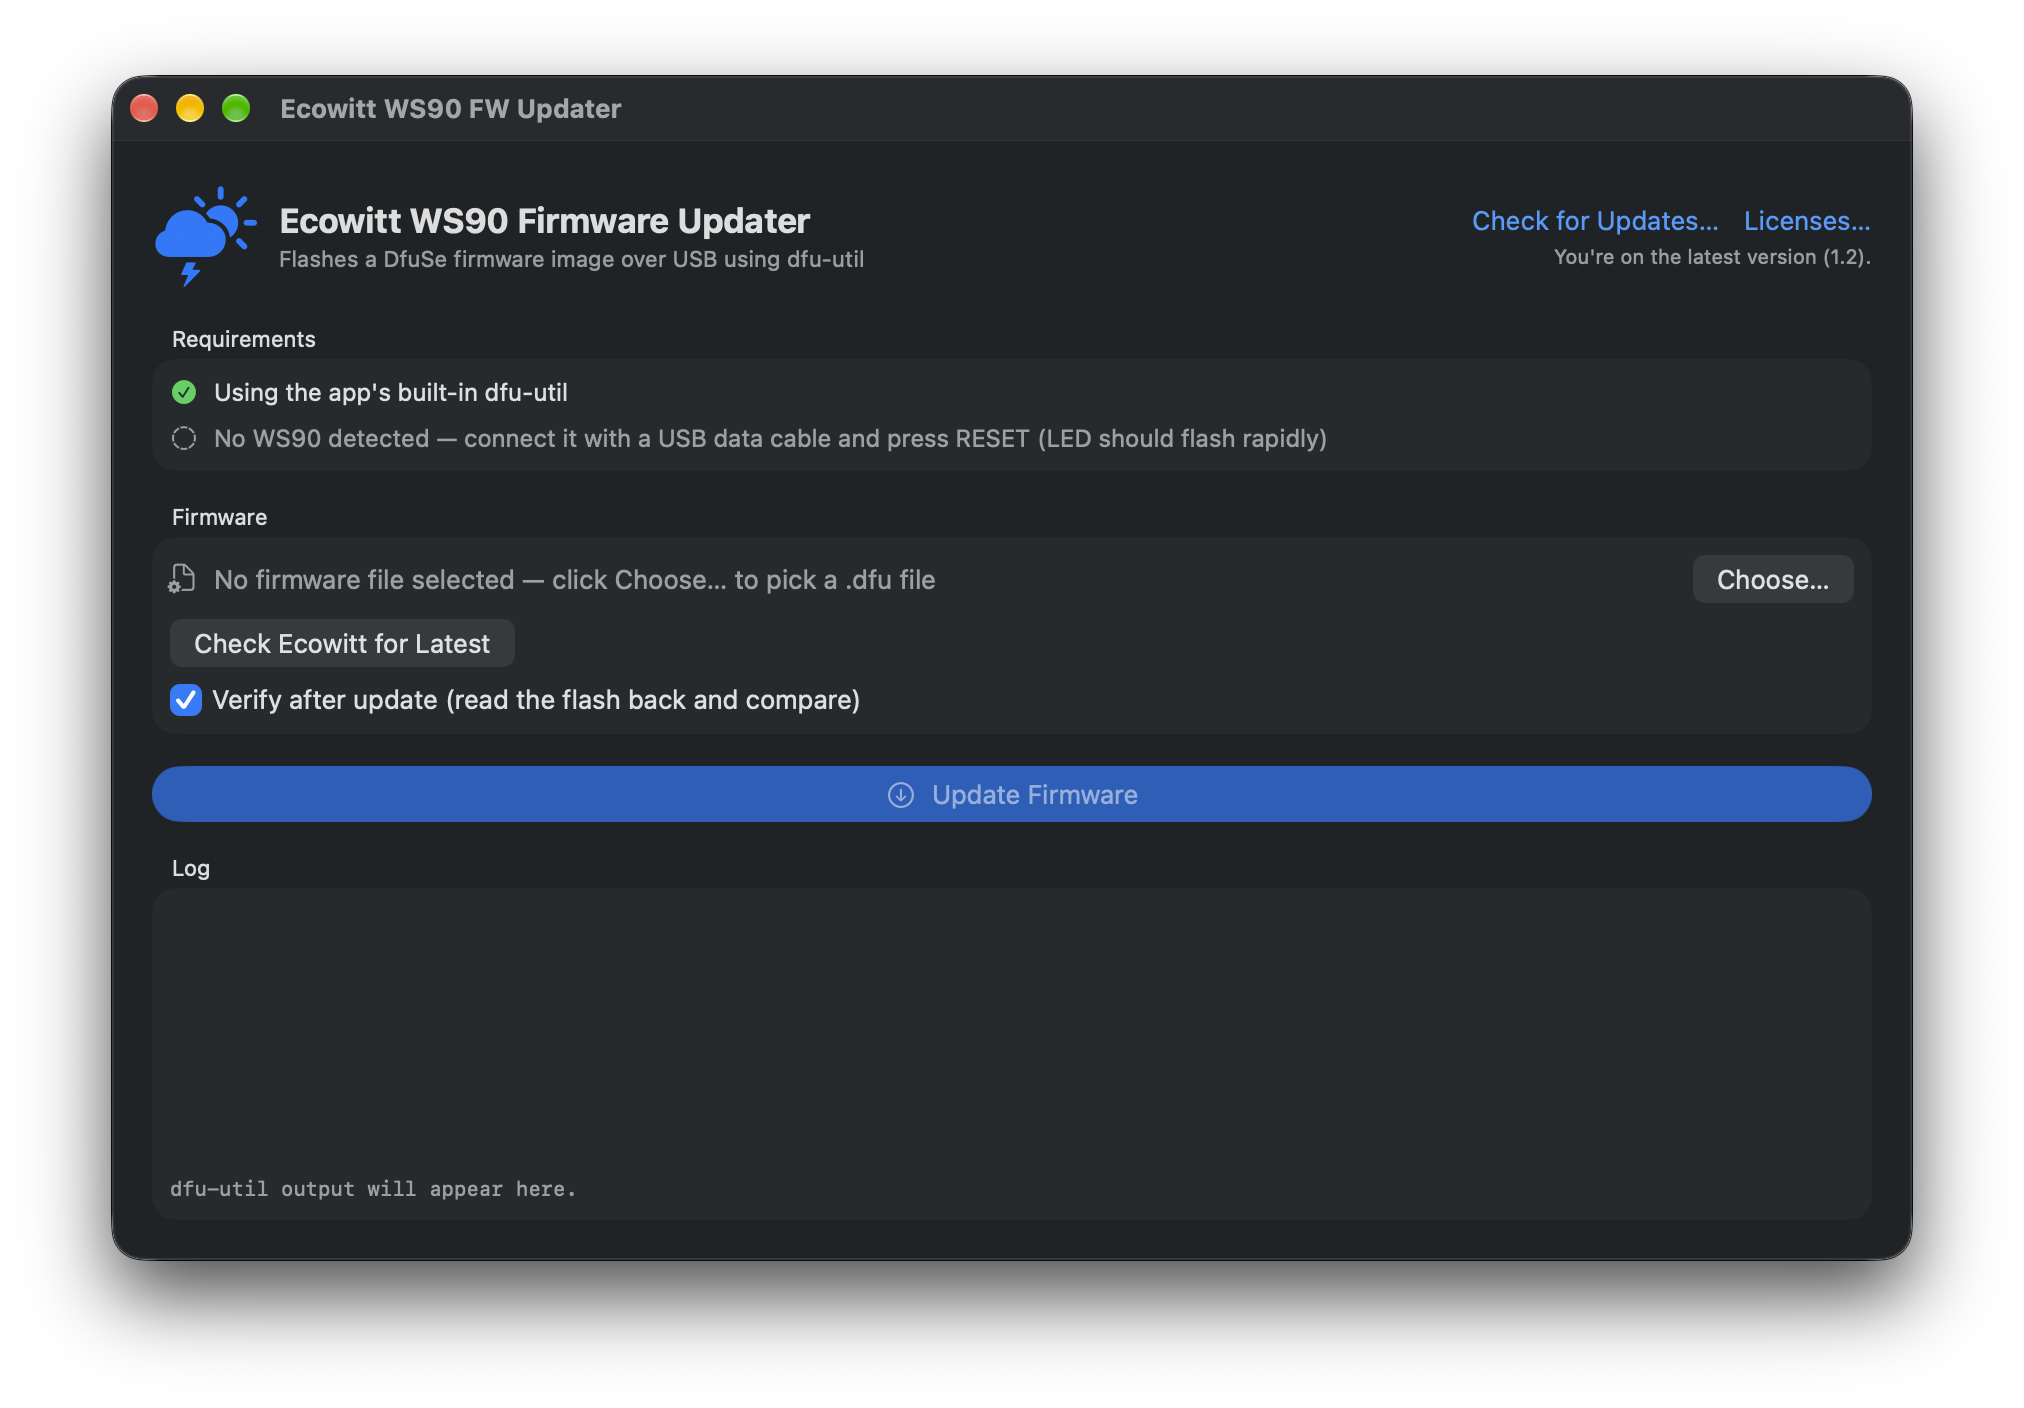
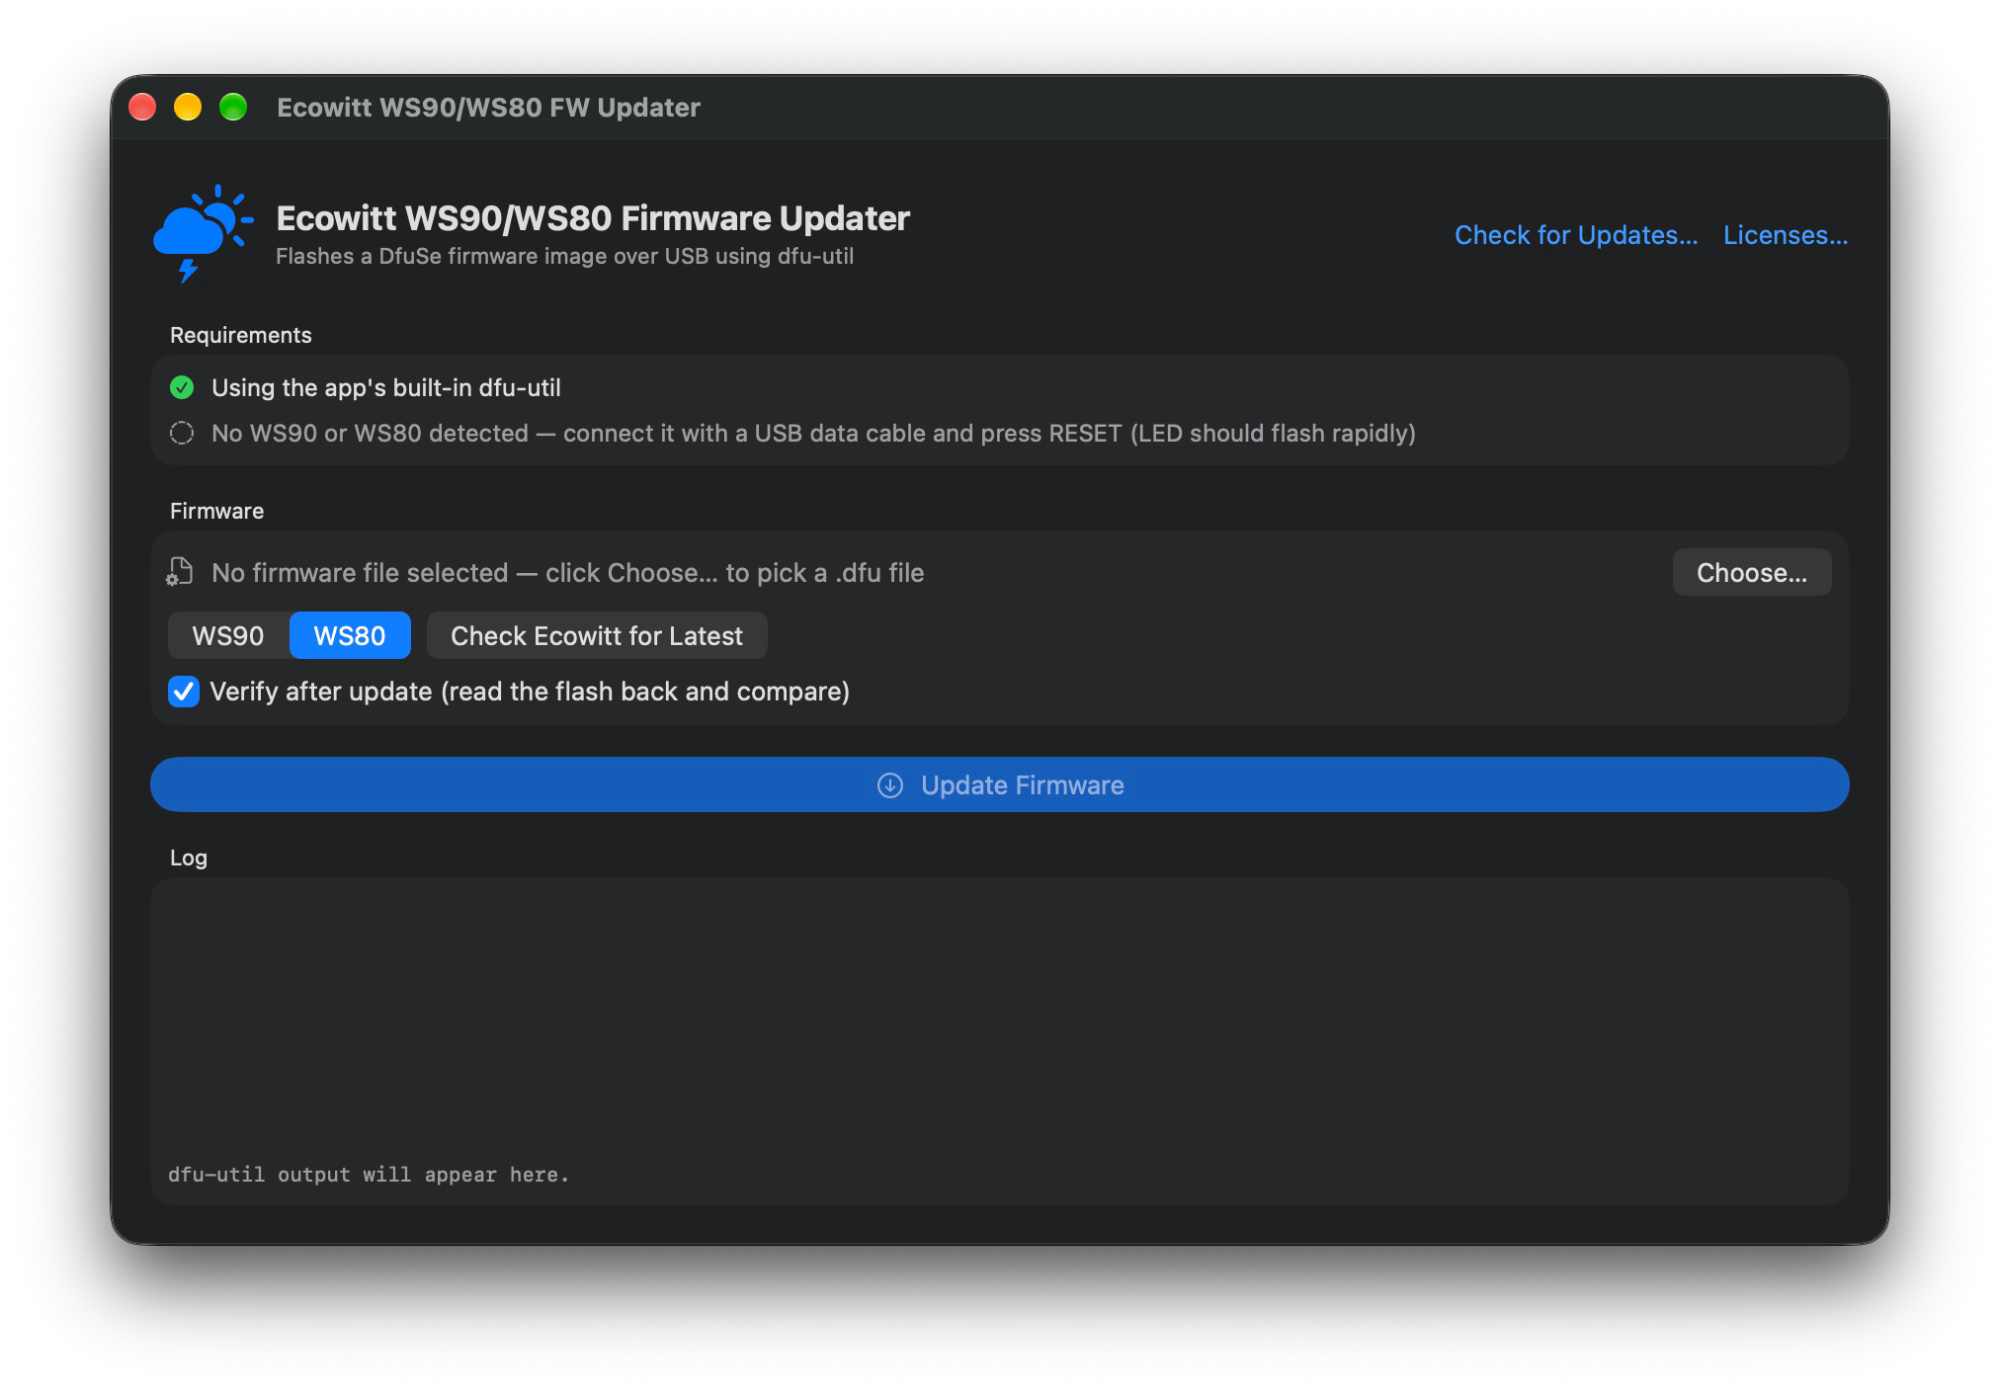
Add WS80 firmware choice and rename to WS90/WS80 (1.3)
Pick WS90 or WS80 next to Check Ecowitt for Latest; the app checks that
model's Ecowitt page and downloads its newest firmware. The app bundle is
now "Ecowitt WS90-WS80 FW Updater" (bundle id unchanged). Adds unit tests
for the firmware link parsing and a new screenshot.

diff --git a/Ecowitt WS90 FW Updater/FirmwareDownloader.swift b/Ecowitt WS90 FW Updater/FirmwareDownloader.swift
@@ -6,7 +6,26 @@
 import Foundation
 import Observation
 
-/// Checks Ecowitt's WS90 product page for the newest published firmware and
+/// The station models this app can fetch firmware for. Both use the same
+/// STM32 DFU bootloader, so the flashing side is identical; only the firmware
+/// image differs.
+enum StationModel: String, CaseIterable, Identifiable {
+    case ws90 = "WS90"
+    case ws80 = "WS80"
+
+    var id: String { rawValue }
+
+    /// Ecowitt's quickstart page for the model (product id 249 is the WS90,
+    /// 46 the WS80).
+    var productPage: URL {
+        switch self {
+        case .ws90: URL(string: "https://www.ecowitt.com/api/quickstart/product?id=249")!
+        case .ws80: URL(string: "https://www.ecowitt.com/api/quickstart/product?id=46")!
+        }
+    }
+}
+
+/// Checks Ecowitt's product page for the newest published firmware and
 /// downloads it. The page is plain server-rendered HTML with direct links to
 /// oss.ecowitt.net; there is no supported API, so parsing is defensive and
 /// failures fall back to pointing the user at the downloads page.
@@ -15,14 +34,12 @@ final class FirmwareDownloader {
     enum State: Equatable {
         case idle
         case checking
-        case available(version: String, url: URL)
-        case downloading(version: String)
-        case downloaded(version: String)
+        case available(model: StationModel, version: String, url: URL)
+        case downloading(model: StationModel, version: String)
+        case downloaded(model: StationModel, version: String)
         case failed(String)
     }
 
-    /// Ecowitt's quickstart page for the WS90 (product id 249).
-    static let productPage = URL(string: "https://www.ecowitt.com/api/quickstart/product?id=249")!
     /// Human-facing downloads page, offered as a fallback when parsing fails.
     static let manualDownloadsPage = URL(string: "https://www.ecowitt.com/support/download/")!
 
@@ -52,35 +69,58 @@ final class FirmwareDownloader {
         }
     }
 
-    /// Fetches the product page and finds the highest-versioned WS90
-    /// firmware zip linked from it (filenames look like "WS90_V1.6.2.zip").
-    func check() async {
+    /// Forgets the result of an earlier check, e.g. when the user picks a
+    /// different model.
+    func reset() {
+        guard !isBusy else { return }
+        state = .idle
+    }
+
+    /// Fetches the model's product page and finds the highest-versioned
+    /// firmware zip for it linked from there.
+    func check(for model: StationModel) async {
         state = .checking
         do {
-            let (data, _) = try await URLSession.shared.data(from: Self.productPage)
+            let (data, _) = try await URLSession.shared.data(from: model.productPage)
             guard let html = String(data: data, encoding: .utf8) else {
                 throw URLError(.cannotDecodeContentData)
             }
-            let matches = html.matches(of: #/href="(https://oss\.ecowitt\.net/uploads/[^"]*WS90[^"]*V([0-9][0-9.]*[0-9])[^"]*\.zip)"/#)
-            guard let best = matches.max(by: { isVersion($0.2, olderThan: $1.2) }) else {
+            guard let best = Self.latestFirmware(in: html, for: model) else {
                 throw DownloadError.pageFormatChanged
             }
-            let href = String(best.1).replacingOccurrences(of: " ", with: "%20")
-            guard let url = URL(string: href) else {
-                throw DownloadError.pageFormatChanged
-            }
-            state = .available(version: String(best.2), url: url)
+            state = .available(model: model, version: best.version, url: best.url)
         } catch {
             state = .failed("Could not check for firmware: \(error.localizedDescription)")
         }
+    }
+
+    /// Finds the highest-versioned firmware zip for `model` among the
+    /// oss.ecowitt.net links in a product page (filenames look like
+    /// "WS90_V1.6.2.zip"). Zips for other models and the Windows toolkit
+    /// archives, which carry no version, are ignored.
+    static func latestFirmware(in html: String, for model: StationModel) -> (version: String, url: URL)? {
+        var best: (version: String, url: URL)?
+        for match in html.matches(of: #/href="(https://oss\.ecowitt\.net/uploads/[^"]*\.zip)"/#) {
+            let href = String(match.1)
+            guard let fileName = href.split(separator: "/").last,
+                  fileName.contains(model.rawValue),
+                  let version = fileName.firstMatch(of: #/V([0-9][0-9.]*[0-9])/#)?.1,
+                  let url = URL(string: href.replacingOccurrences(of: " ", with: "%20")) else {
+                continue
+            }
+            if best == nil || isVersion(best!.version[...], olderThan: version) {
+                best = (String(version), url)
+            }
+        }
+        return best
     }
 
     /// Downloads the zip found by `check()`, extracts it, validates that it
     /// contains a well-formed DfuSe file, and returns the extracted file's
     /// location in Application Support.
     func download() async -> URL? {
-        guard case .available(let version, let url) = state else { return nil }
-        state = .downloading(version: version)
+        guard case .available(let model, let version, let url) = state else { return nil }
+        state = .downloading(model: model, version: version)
         do {
             let (tempZip, _) = try await URLSession.shared.download(from: url)
             let workDir = FileManager.default.temporaryDirectory
@@ -105,7 +145,7 @@ final class FirmwareDownloader {
             try? FileManager.default.removeItem(at: destination)
             try FileManager.default.copyItem(at: dfuURL, to: destination)
 
-            state = .downloaded(version: version)
+            state = .downloaded(model: model, version: version)
             return destination
         } catch {
             state = .failed("Download failed: \(error.localizedDescription)")
@@ -140,7 +180,7 @@ final class FirmwareDownloader {
     }
 
     /// Numeric component-wise comparison, so "1.10.0" beats "1.6.2".
-    private func isVersion(_ a: Substring, olderThan b: Substring) -> Bool {
+    private static func isVersion(_ a: Substring, olderThan b: Substring) -> Bool {
         let av = a.split(separator: ".").map { Int($0) ?? 0 }
         let bv = b.split(separator: ".").map { Int($0) ?? 0 }
         for i in 0..<max(av.count, bv.count) {

diff --git a/Ecowitt WS90 FW Updater/ContentView.swift b/Ecowitt WS90 FW Updater/ContentView.swift
@@ -17,6 +17,7 @@ struct ContentView: View {
     @State private var showingCancelConfirmation = false
     @State private var showingAcknowledgments = false
     @AppStorage("verifyAfterUpdate") private var verifyAfterUpdate = true
+    @AppStorage("firmwareModel") private var firmwareModel = StationModel.ws90
 
     private var dfuFileType: UTType {
         UTType(filenameExtension: "dfu") ?? .data
@@ -72,7 +73,7 @@ struct ContentView: View {
                 .font(.system(size: 36))
                 .foregroundStyle(.tint)
             VStack(alignment: .leading) {
-                Text("Ecowitt WS90 Firmware Updater")
+                Text("Ecowitt WS90/WS80 Firmware Updater")
                     .font(.title2.bold())
                 Text("Flashes a DfuSe firmware image over USB using dfu-util")
                     .font(.subheadline)
@@ -150,8 +151,8 @@ struct ContentView: View {
                 )
                 statusRow(
                     ok: updater.deviceDetected,
-                    okText: "WS90 detected in DFU mode — serial \(updater.deviceInfo?.serial ?? "")",
-                    failText: "No WS90 detected — connect it with a USB data cable and press RESET (LED should flash rapidly)"
+                    okText: "Station detected in DFU mode — serial \(updater.deviceInfo?.serial ?? "")",
+                    failText: "No WS90 or WS80 detected — connect it with a USB data cable and press RESET (LED should flash rapidly)"
                 )
                 if let info = updater.deviceInfo, !info.flashLayout.isEmpty {
                     Text(info.flashLayout)
@@ -185,8 +186,20 @@ struct ContentView: View {
                     .disabled(updater.isFlashing)
                 }
                 HStack(spacing: 8) {
+                    Picker("Station model", selection: $firmwareModel) {
+                        ForEach(StationModel.allCases) { model in
+                            Text(model.rawValue).tag(model)
+                        }
+                    }
+                    .pickerStyle(.segmented)
+                    .labelsHidden()
+                    .fixedSize()
+                    .disabled(updater.isFlashing || downloader.isBusy)
+                    .onChange(of: firmwareModel) {
+                        downloader.reset()
+                    }
                     Button("Check Ecowitt for Latest") {
-                        Task { await downloader.check() }
+                        Task { await downloader.check(for: firmwareModel) }
                     }
                     .disabled(updater.isFlashing || downloader.isBusy)
                     onlineFirmwareStatus
@@ -209,8 +222,8 @@ struct ContentView: View {
                 .controlSize(.small)
             Text("Checking…")
                 .foregroundStyle(.secondary)
-        case .available(let version, _):
-            Text("Latest available: V\(version)")
+        case .available(let model, let version, _):
+            Text("Latest \(model.rawValue): V\(version)")
             Button("Download & Use") {
                 Task {
                     if let url = await downloader.download() {
@@ -220,13 +233,13 @@ struct ContentView: View {
                 }
             }
             .disabled(updater.isFlashing)
-        case .downloading(let version):
+        case .downloading(let model, let version):
             ProgressView()
                 .controlSize(.small)
-            Text("Downloading V\(version)…")
+            Text("Downloading \(model.rawValue) V\(version)…")
                 .foregroundStyle(.secondary)
-        case .downloaded(let version):
-            Label("Downloaded V\(version)", systemImage: "checkmark.circle.fill")
+        case .downloaded(let model, let version):
+            Label("Downloaded \(model.rawValue) V\(version)", systemImage: "checkmark.circle.fill")
                 .foregroundStyle(.green)
         case .failed(let message):
             Text(message)

diff --git a/Ecowitt WS90 FW UpdaterTests/Ecowitt_WS90_FW_UpdaterTests.swift b/Ecowitt WS90 FW UpdaterTests/Ecowitt_WS90_FW_UpdaterTests.swift
@@ -5,15 +5,43 @@
 //  Created by Curtis Netterville on 9/4/26.
 //
 
+import Foundation
 import Testing
 @testable import Ecowitt_WS90_FW_Updater
 
-struct Ecowitt_WS90_FW_UpdaterTests {
+struct FirmwareLinkParsingTests {
+    /// Trimmed from Ecowitt's product pages: a kit page lists firmware for
+    /// several devices, plus toolkit archives that are not firmware.
+    private let html = """
+        <a href="https://oss.ecowitt.net/uploads/20250409/WS90 Tookit for Firmware and Help File.zip">
+        <a href="https://oss.ecowitt.net/uploads/20250409/WS80 Upgrade Toolkit Windows PCs.zip">
+        <a href="https://oss.ecowitt.net/uploads/20260618/Firmware V2.1.4.zip">
+        <a href="https://oss.ecowitt.net/uploads/20260101/WS90_V1.6.2.zip">
+        <a href="https://oss.ecowitt.net/uploads/20261113/WS90_V1.10.0.zip">
+        <a href="https://oss.ecowitt.net/uploads/20260817/WS80_V1.3.3.zip">
+        <a href="https://oss.ecowitt.net/uploads/20261113/WS90 Manual.pdf">
+        """
 
-    @Test func example() async throws {
-        // Write your test here and use APIs like `#expect(...)` to check expected conditions.
-        // Swift Testing Documentation
-        // https://developer.apple.com/documentation/testing
+    @Test func picksNewestWS90ByNumericVersion() {
+        let found = FirmwareDownloader.latestFirmware(in: html, for: .ws90)
+        #expect(found?.version == "1.10.0")
+        #expect(found?.url.absoluteString == "https://oss.ecowitt.net/uploads/20261113/WS90_V1.10.0.zip")
     }
 
+    @Test func picksWS80FirmwareNotToolkit() {
+        let found = FirmwareDownloader.latestFirmware(in: html, for: .ws80)
+        #expect(found?.version == "1.3.3")
+        #expect(found?.url.absoluteString == "https://oss.ecowitt.net/uploads/20260817/WS80_V1.3.3.zip")
+    }
+
+    @Test func escapesSpacesInLinks() {
+        let page = #"<a href="https://oss.ecowitt.net/uploads/20261113/WS80 firmware V1.4.0.zip">"#
+        let found = FirmwareDownloader.latestFirmware(in: page, for: .ws80)
+        #expect(found?.url.absoluteString == "https://oss.ecowitt.net/uploads/20261113/WS80%20firmware%20V1.4.0.zip")
+    }
+
+    @Test func returnsNilWhenModelHasNoFirmware() {
+        let page = #"<a href="https://oss.ecowitt.net/uploads/20261113/WS90_V1.6.3.zip">"#
+        #expect(FirmwareDownloader.latestFirmware(in: page, for: .ws80) == nil)
+    }
 }

diff --git a/Ecowitt WS90 FW Updater/DFUUpdater.swift b/Ecowitt WS90 FW Updater/DFUUpdater.swift
@@ -122,7 +122,7 @@ final class DFUUpdater {
         flashProcess = process
         sleepActivity = ProcessInfo.processInfo.beginActivity(
             options: [.userInitiated, .idleSystemSleepDisabled],
-            reason: "Updating WS90 firmware")
+            reason: "Updating weather station firmware")
 
         Task {
             do {

diff --git a/Ecowitt WS90 FW Updater/Ecowitt_WS90_FW_UpdaterApp.swift b/Ecowitt WS90 FW Updater/Ecowitt_WS90_FW_UpdaterApp.swift
@@ -10,7 +10,7 @@ import SwiftUI
 @main
 struct Ecowitt_WS90_FW_UpdaterApp: App {
     var body: some Scene {
-        WindowGroup {
+        WindowGroup("Ecowitt WS90/WS80 FW Updater") {
             ContentView()
         }
     }

diff --git a/README.md b/README.md
@@ -1,8 +1,8 @@
-# Ecowitt WS90 FW Updater
+# Ecowitt WS90/WS80 FW Updater
 
-A macOS app for updating [Ecowitt WS90](https://www.ecowitt.com) (and WS80) weather station firmware over USB — no Terminal, no Homebrew, no Windows-only tools.
+A macOS app for updating [Ecowitt WS90 and WS80](https://www.ecowitt.com) weather station firmware over USB — no Terminal, no Homebrew, no Windows-only tools.
 
-![Ecowitt WS90 FW Updater](docs/screenshot.png)
+![Ecowitt WS90/WS80 FW Updater](docs/screenshot.png)
 
 ## Download
 
@@ -11,7 +11,7 @@ Grab the latest signed and notarized build from the [Releases page](https://gith
 ## Features
 
 - **Automatic device detection** — plug the station in and the app finds it, showing its serial number and flash layout.
-- **One-click firmware fetch** — checks Ecowitt's site for the newest published WS90 firmware and downloads it for you; you can also choose a `.dfu` file manually.
+- **One-click firmware fetch** — pick WS90 or WS80, and the app checks Ecowitt's site for that model's newest published firmware and downloads it for you; you can also choose a `.dfu` file manually.
 - **Verify after update** — optionally reads the flash back after writing and compares it byte-for-byte against the firmware file.
 - **Safe by design** — validates firmware files before flashing, prevents your Mac from sleeping mid-update, confirms before canceling, and gives specific recovery guidance if anything fails.
 - **Self-contained** — bundles `dfu-util` and `libusb`, so there's nothing else to install.
@@ -20,7 +20,7 @@ Grab the latest signed and notarized build from the [Releases page](https://gith
 
 1. Remove the silicone cover from the top of the station and connect it to your Mac with a Micro-USB **data** cable (charge-only cables won't work).
 2. Press the **RESET** button — the LED should flash rapidly, indicating DFU mode. The app detects the station within a couple of seconds.
-3. Click **Check Ecowitt for Latest** → **Download & Use**, or **Choose…** to pick a `.dfu` file you downloaded yourself.
+3. Pick your model (**WS90** or **WS80**), then click **Check Ecowitt for Latest** → **Download & Use**, or **Choose…** to pick a `.dfu` file you downloaded yourself.
 4. Click **Update Firmware** and leave the cable alone until it finishes.
 5. Disconnect the cable and press **RESET**. The LED stays on for a few seconds and then turns off — the station is back to normal operation.
 
